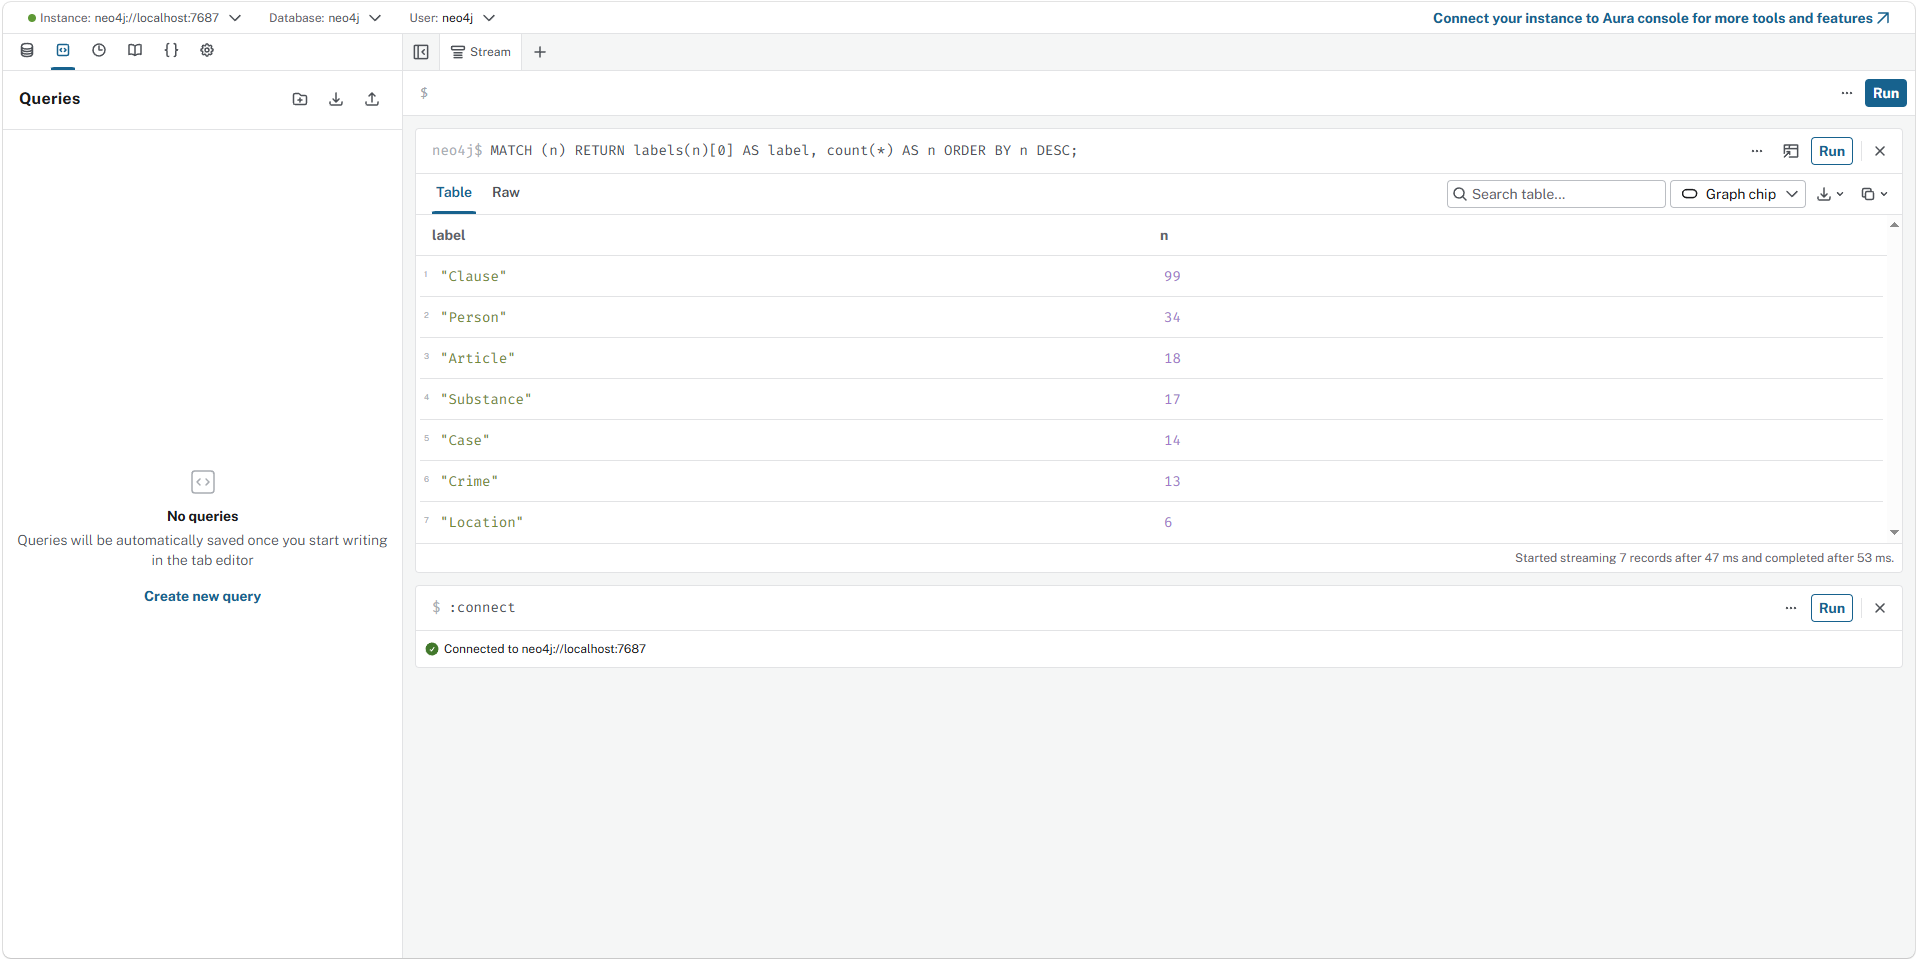
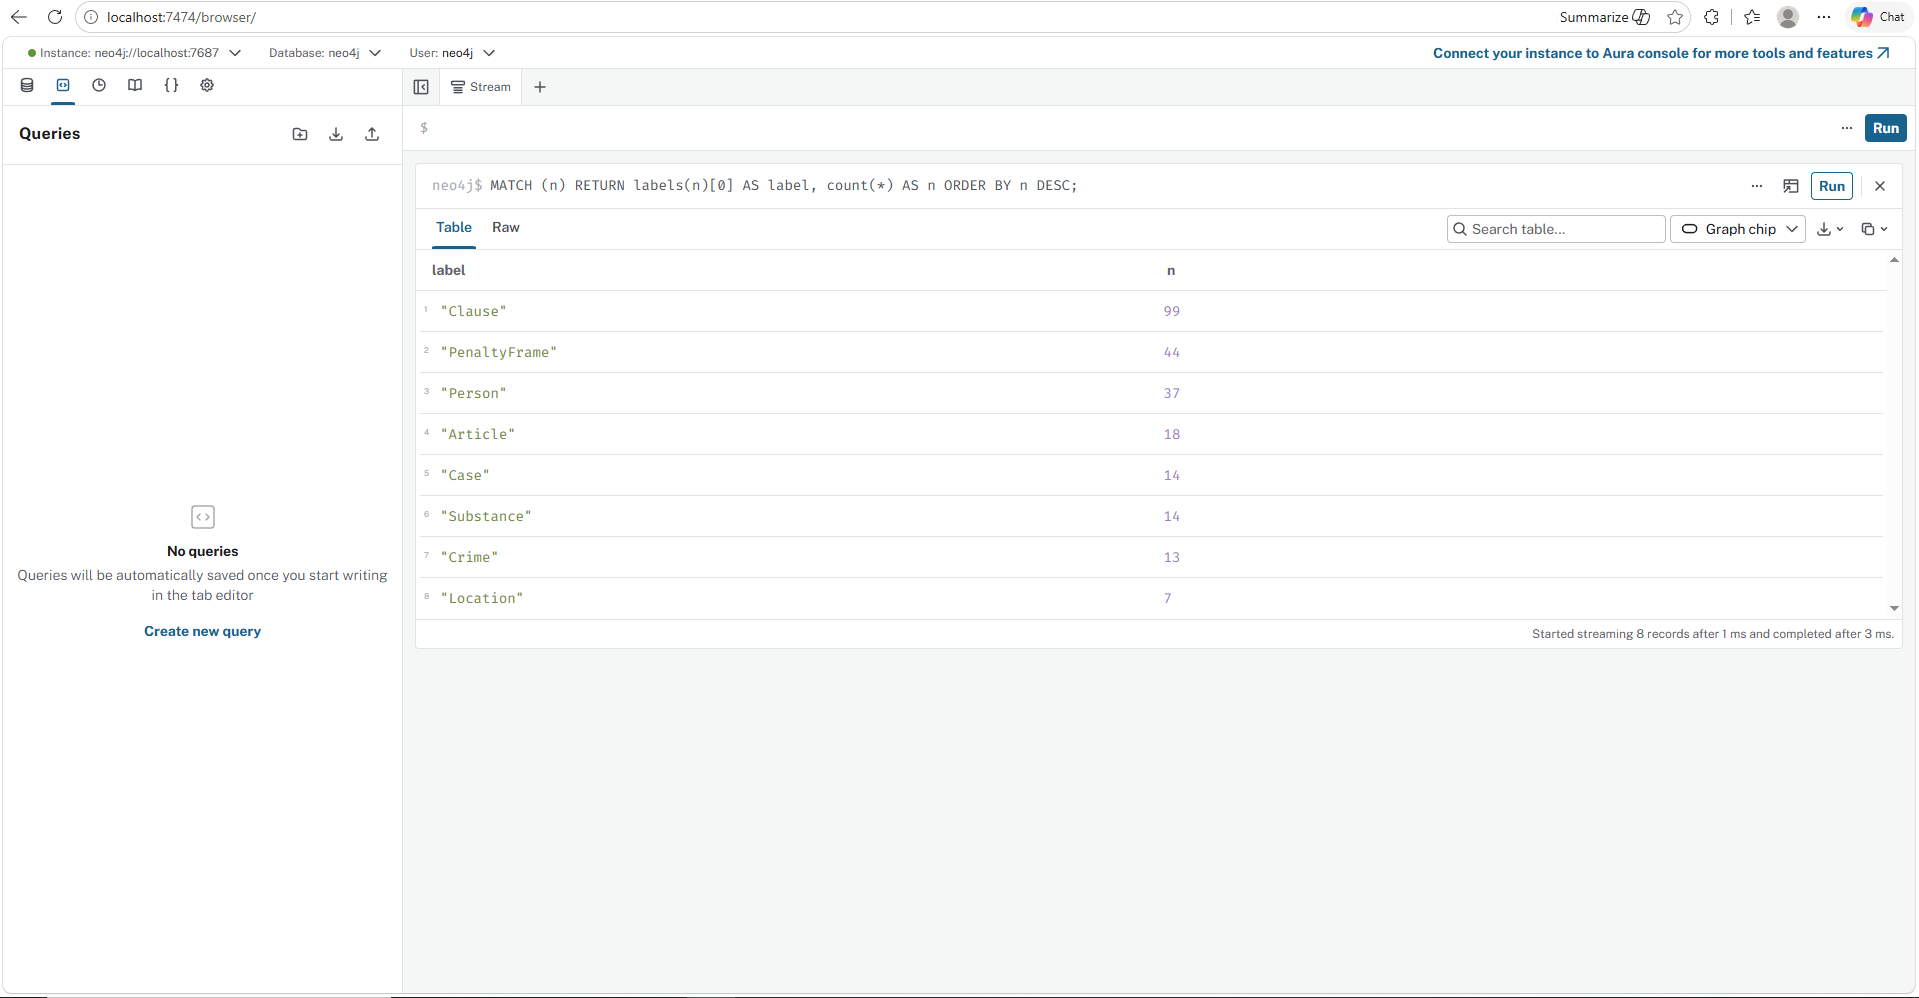
docs: finalize bonus screenshots and submission review

diff --git a/report/REPORT_KG.md b/report/REPORT_KG.md
@@ -157,7 +157,7 @@ $ python bench_kg.py --judge
 
 ## 7. Ảnh và trạng thái nộp bài
 
-Ba ảnh đang ở `img/kg_count.png`, `img/kg_cross_kb.png`, `img/kg_my_case.png` là ảnh baseline người dùng cung cấp, không phải graph mới. Count cũ tổng 201 nên **cần chụp lại cho bonus** (hiện 246). Chọn Cái Quang Huy cho vụ riêng. Công cụ vẫn báo `Browser is not available: edge`, chưa chụp được ảnh mới và chưa xác nhận nộp link trên vlearn.
+Ba ảnh bonus người dùng cung cấp đã được kiểm tra và lưu nguyên trạng: [kg_count.png](img/kg_count.png), [kg_cross_kb.png](img/kg_cross_kb.png), [kg_my_case.png](img/kg_my_case.png). Ảnh count đủ 8 label, tổng 246 node, gồm 44 PenaltyFrame; khớp benchmark và bằng chứng bonus. Ảnh cầu nối thấy Person, Case, Crime, Article cùng ba loại cạnh. Ảnh Cái Quang Huy có 15 node/14 cạnh trong kết quả, gồm 4 Clause và 4 PenaltyFrame, thể hiện HAS_PENALTY; đây là số của kết quả truy vấn, không phải toàn graph. Cả ba thấy cửa sổ trình duyệt, ô truy vấn; hai ảnh Graph có Results overview. Phần cuối truy vấn ảnh vụ riêng vẫn bị giao diện rút gọn; truy vấn đầy đủ được ghi bên dưới. Chưa xác nhận thao tác nộp link trên vlearn.
 
 Sau `:clear`, chụp cả cửa sổ, ô truy vấn đầy đủ, Graph và Results overview:
 
@@ -182,4 +182,4 @@ RETURN p,q,f;
 - PenaltyFrame thực sự thay đổi schema, không chỉ đổi tên; KG-3 thực sự dùng frame trong xếp hạng. Tests bảo vệ không nhầm số điều kiện và không biến chung thân thành năm.
 - Q4 sửa đúng nhưng không suy rằng người cụ thể đã bị tuyên khung cao nhất. Q5 có judge=2 vẫn thiếu Ketamine; thừa nhận giới hạn phép đo.
 - Hai lỗi baseline có bằng chứng và sửa; Q6 vẫn có lỗi cần tiếp tục nghiên cứu. Chưa làm bonus về ngưỡng khối lượng hoặc lịch sử tố tụng.
-- Ảnh baseline không được trình bày là ảnh bonus; chưa tuyên bố hoàn thành phần ảnh/nộp link.
+- Đã đối chiếu ảnh bonus với schema và số liệu graph mới; ghi nhận giới hạn phần cuối truy vấn bị rút gọn ở ảnh vụ riêng. Không xác nhận việc nộp link khi chưa có bằng chứng từ vlearn.

diff --git a/report/ONTOLOGY.md b/report/ONTOLOGY.md
@@ -99,4 +99,4 @@ Baseline tại commit 3c2c12c, file ket_qua_benchmark_kg.hint.txt là bản nguy
 - Ranking không xử lý hình phạt tù có điều kiện, lựa chọn phạt tiền, cải tạo hoặc tương tác nhiều tội. Parser chỉ tạo frame khi penalty có “phạt tù”; bỏ sót cấu trúc khác cần audit riêng.
 - Không hardcode đáp án gold; tests chỉ kiểm tra hợp đồng/domain parsing và các lỗi cần tránh, không sửa tests gốc hoặc benchmark.
 - Chưa có alias ngữ nghĩa cho chất, chưa gộp vụ/người đa nguồn, chưa giữ lịch sử tố tụng. Không tuyên bố Q6 đã giải quyết chỉ vì giảm trùng Substance.
-- Cần chụp lại ảnh count và graph luật có frame theo graph mới; ảnh baseline cũ không chứng minh số lượng/schema bonus hiện tại.
+- Đã thay ba ảnh bằng ảnh graph bonus: count có 246 node/44 PenaltyFrame; ảnh vụ riêng có Clause → HAS_PENALTY → PenaltyFrame. Giới hạn hiển thị truy vấn ảnh vụ riêng và trạng thái nộp link ghi trong REPORT_KG.md.
